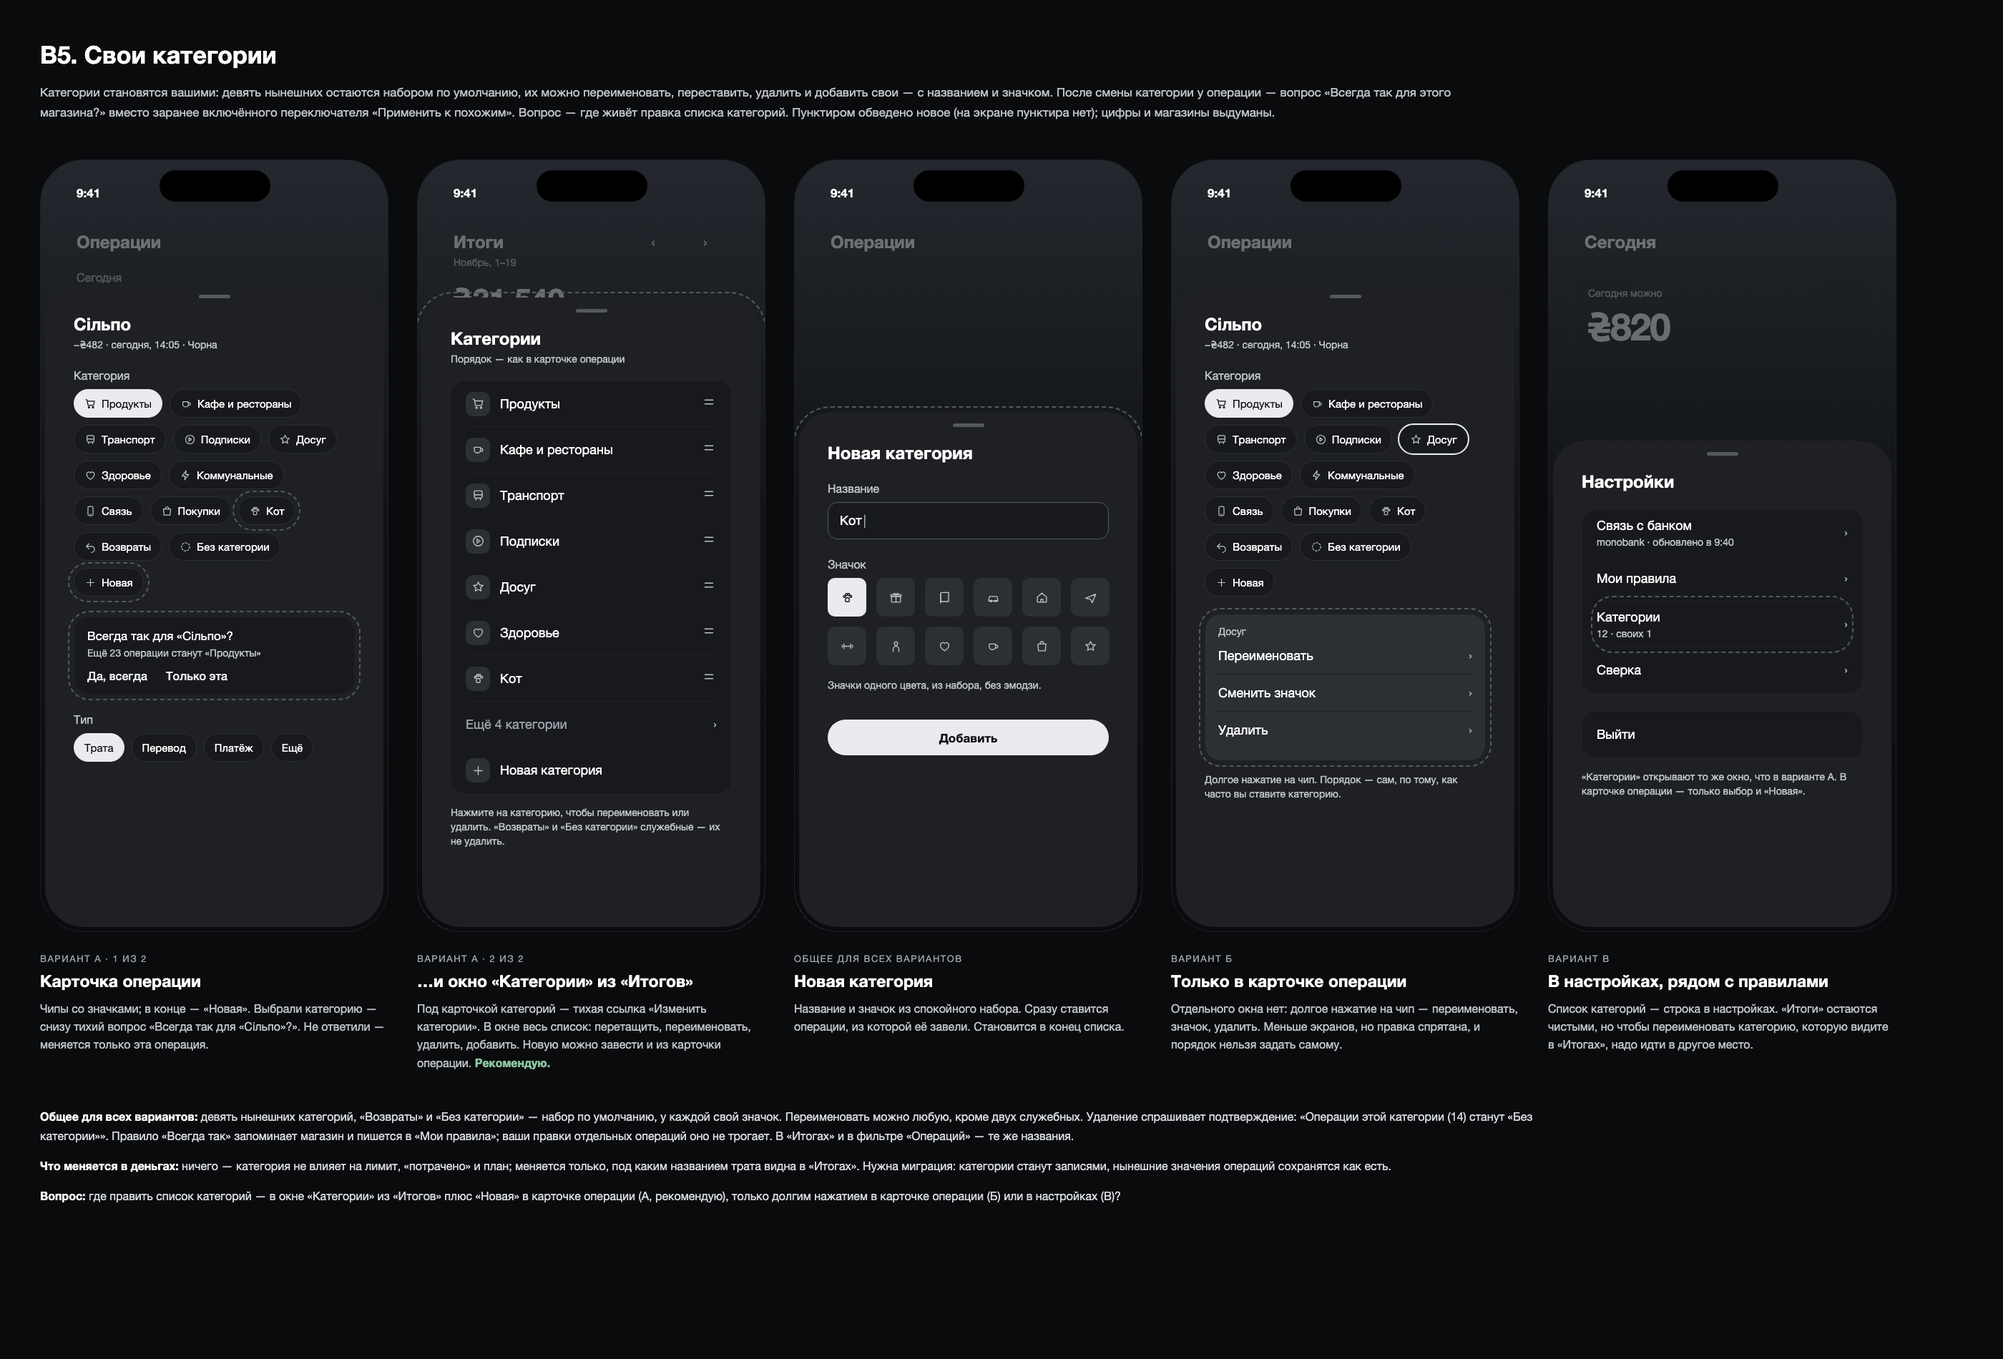
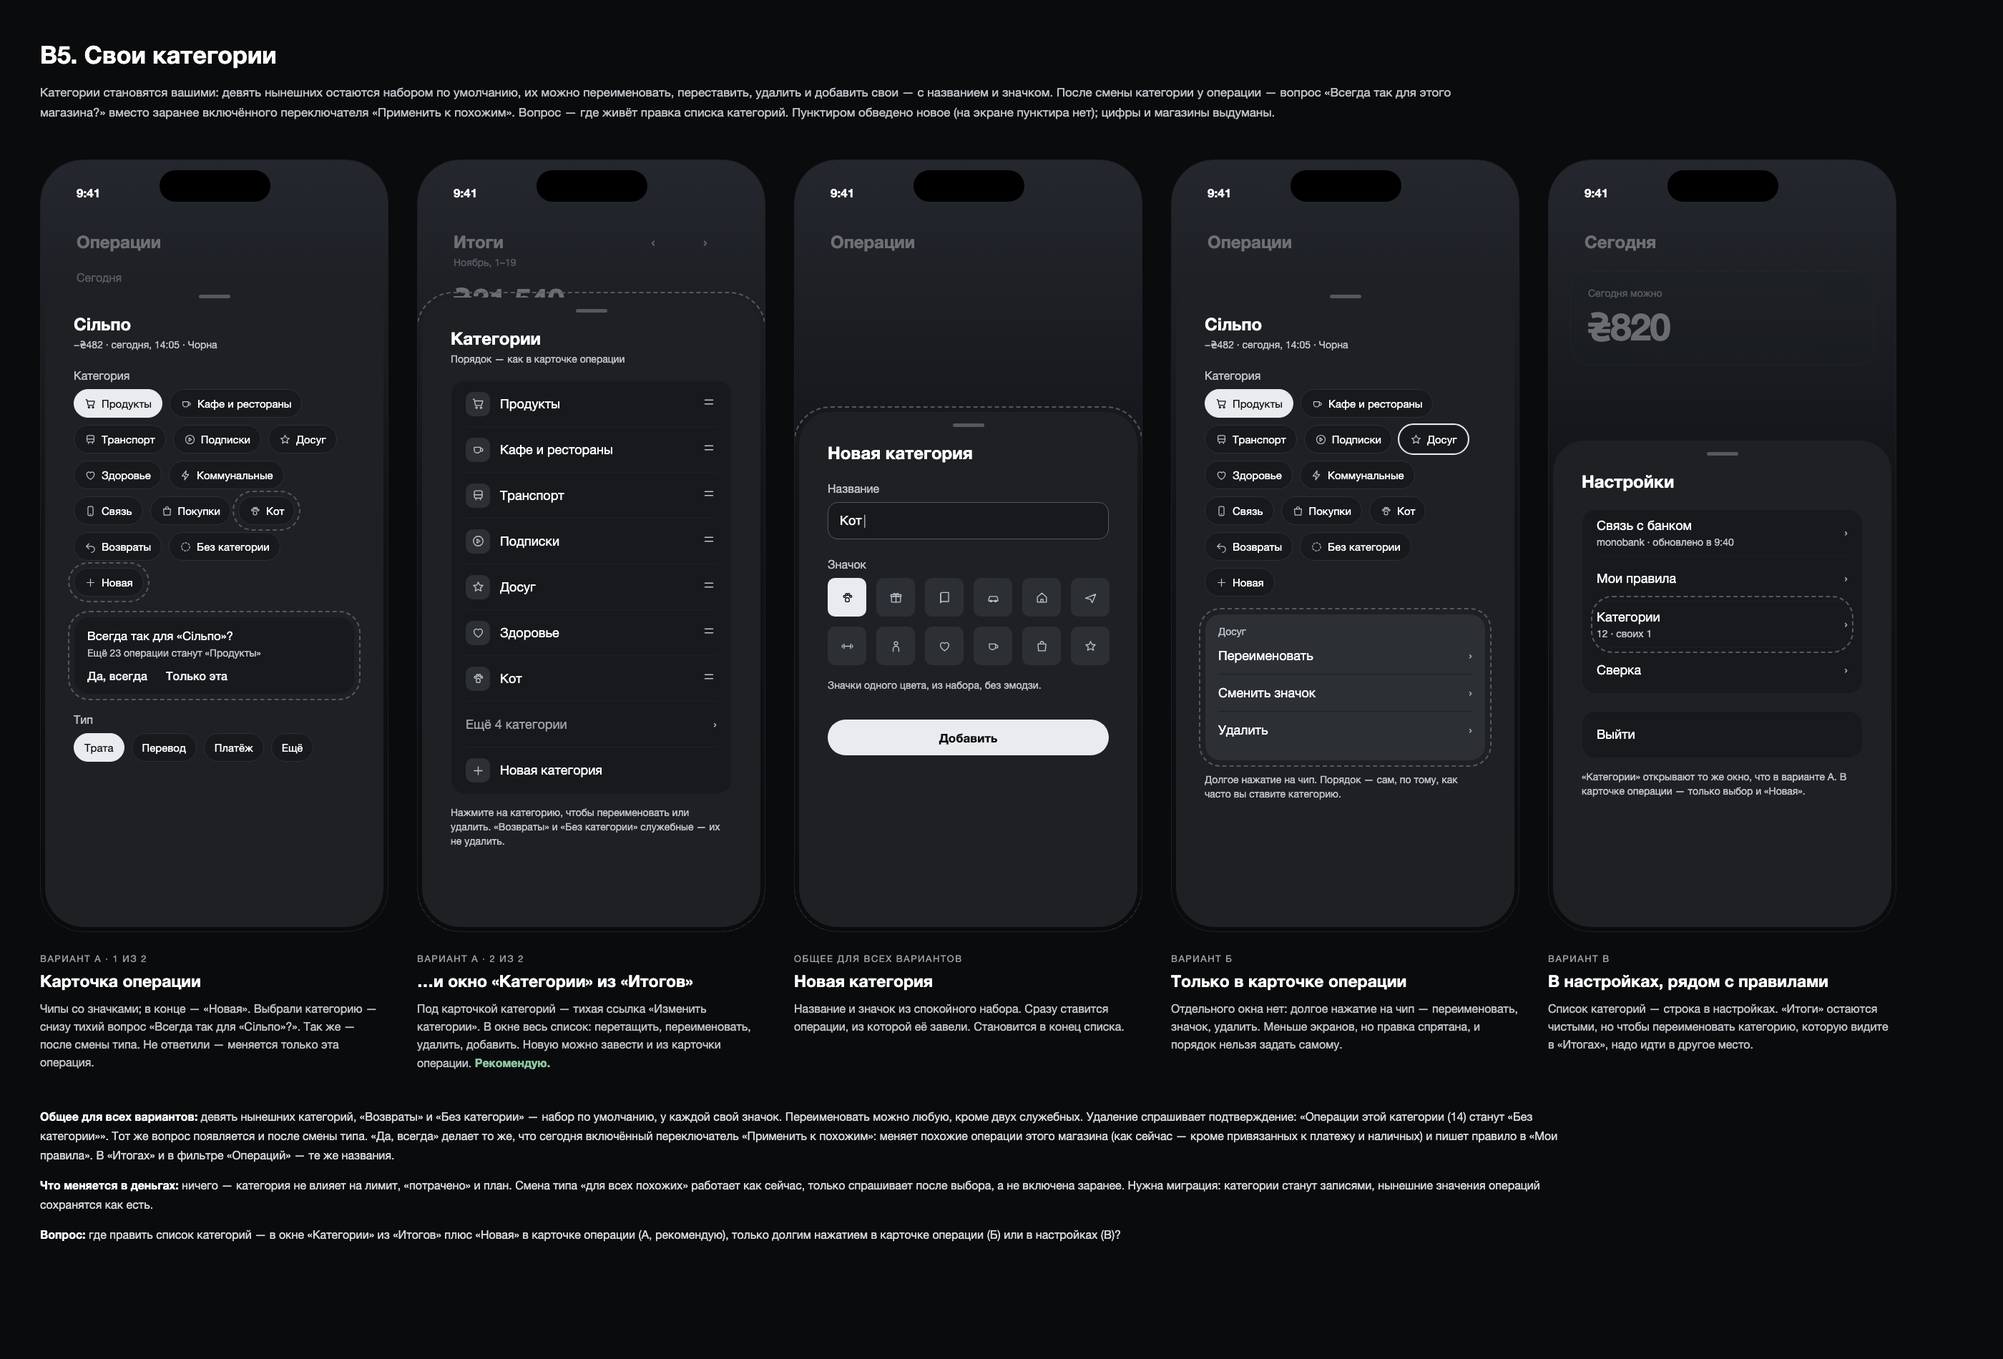
docs: правки по проверке

Changed region(s): [[0.0, 0.8074, 0.6836, 0.9316], [0.1243, 0.7453, 0.1864, 0.7763], [0.0311, 0.7453, 0.0932, 0.7763]]

diff --git a/docs/superpowers/backlog.md b/docs/superpowers/backlog.md
@@ -567,7 +567,7 @@
 
 ### В5. Свои категории
 - Статус: ждёт владельца — макет `daily/2026-11-19/maket-v5-kategorii.png`: где править список категорий — в окне «Категории» из «Итогов» плюс «Новая» в карточке операции (А, рекомендую), только долгим нажатием на чип в карточке операции (Б) или строкой «Категории» в настройках (В)? · Макет: да · Объём: M · миграция · решение владельца 11 ноября «свои категории»
-- Общее для всех вариантов (решил ведущий, владелец может поправить): у каждой категории значок одного цвета из набора, без эмодзи; «Возвраты» и «Без категории» служебные — не удаляются и не переименовываются; удаление спрашивает подтверждение, операции уходят в «Без категории»; переключатель «Применить к похожим» заменяется вопросом «Всегда так для «…»?» после смены категории («Да, всегда» / «Только эта», без ответа меняется одна операция); правило пишется в «Мои правила».
+- Общее для всех вариантов (решил ведущий, владелец может поправить): у каждой категории значок одного цвета из набора, без эмодзи; «Возвраты» и «Без категории» служебные — не удаляются и не переименовываются; удаление спрашивает подтверждение, операции уходят в «Без категории»; переключатель «Применить к похожим» заменяется вопросом «Всегда так для «…»?» после смены категории и после смены типа («Да, всегда» / «Только эта», без ответа меняется одна операция). «Да, всегда» делает ровно то же, что сегодня `applyToSimilar`: те же похожие строки (`similarScope`/`scopeWhere` в `transactions.service.ts`, правки отдельных строк перезаписываются, как сейчас) и то же правило в «Моих правилах» с типом и категорией. Правило учёта не меняется, меняется только то, что переключатель больше не включён заранее.
 - Что: категории становятся записями: название, значок, порядок; нынешние — набор по умолчанию; переименование и добавление в «Итогах» и в карточке операции; после смены категории — «Всегда так для этого магазина» (аудит, раздел 6.4).
 
 ### В6. «Нужное и желаемое»
@@ -575,8 +575,8 @@
 - Что: признак «нужное» / «желаемое» у категории с правкой на отдельной операции; в «Итогах» видно, сколько ушло на желаемое.
 
 ### В7. Наблюдения во фразе дня и строка «Итогов» на «Сегодня»
-- Статус: ждёт владельца — макет `daily/2026-11-19/maket-v7-nablyudeniya.png`: где показывать наблюдения — во фразе дня в спокойный день, без новых строк на «Сегодня» (А, рекомендую), отдельной строкой «Итогов» внизу «Сегодня» (Б) или и там, и там (В)? · Макет: да (тексты — в макете) · Объём: M · после В1
-- Тексты в макете (решил ведущий): «Кафе с начала ноября ₴4,820. Обычно к этому дню около ₴3,100.»; за неделю — «Продукты за неделю ₴2,140. Обычно около ₴1,400.»; в нехватке — только «На этой неделе спишутся подписки: около ₴519.» (из найденных подписок В4, если они спишутся до дохода). Порог в макете — больше на 35% и больше ₴500 против медианы тех же дней трёх прошлых месяцев. «Не показывать такое» — на наблюдении в «Операциях», действует на категорию.
+- Статус: ждёт владельца — макет `daily/2026-11-19/maket-v7-nablyudeniya.png`: где показывать наблюдения — во фразе дня в спокойный день, без новых строк на «Сегодня» (А, рекомендую), отдельной строкой «Итогов» внизу «Сегодня» (Б) или и там, и там (В)? · Макет: да (тексты — в макете) · Объём: M · миграция · после В1
+- Тексты в макете (решил ведущий): «Кафе с начала ноября ₴4,820. Обычно к этому дню около ₴3,100.»; за неделю — «Продукты за неделю ₴2,140. Обычно около ₴1,400.»; в нехватке — только «На этой неделе спишутся подписки: около ₴519.» (из найденных подписок В4, если они спишутся до дохода). Порог в макете — больше на 35% и больше ₴500 против медианы тех же дней трёх прошлых месяцев. «Не показывать такое» — на наблюдении в «Операциях», действует на категорию, хранится на сервере (миграция). Для текста в нехватке нужна оценка следующего списания подписки: в ответе В4 сейчас есть только `lastDate`.
 - Что: спайк по категории (больше 30–40% и больше ₴500 против медианы трёх прошлых месяцев), не больше одного наблюдения в день и трёх в неделю, только в день без дела; в нехватке — только то, что помогает, без упрёка; «Не показывать такое»; наблюдение открывается в «Операциях» с фильтром (аудит, разделы 4 и 8).
 
 ## Дальше (нарезать перед началом)

diff --git a/docs/superpowers/daily/2026-11-19.md b/docs/superpowers/daily/2026-11-19.md
@@ -10,8 +10,8 @@
 | В7. Наблюдения — макет | Три варианта: где показывать наблюдения. Плюс тексты и как это выглядит в режиме нехватки | этот PR |
 
 Что я решил сам (можно поправить):
-- **В5.** У каждой категории есть значок. Значки одного цвета, из готового набора, без эмодзи. «Возвраты» и «Без категории» — служебные: их нельзя удалить или переименовать. Если удалить категорию, её операции станут «Без категории»; перед этим приложение спросит. Переключатель «Применить к похожим» заменит вопрос после смены категории: «Всегда так для «Сільпо»?» с ответами «Да, всегда» и «Только эта». Если не ответить, изменится только эта операция.
-- **В7.** Наблюдение показывается, если по категории ушло больше обычного на 35% и больше чем на ₴500. «Обычно» — середина тех же дней трёх прошлых месяцев. Тон спокойный: «Кафе с начала ноября ₴4,820. Обычно к этому дню около ₴3,100.» Без «слишком», «превысили» и советов. Когда денег до дохода не хватает, сравнения «больше обычного» нет. В этом режиме показывается только то, что помогает, например «На этой неделе спишутся подписки: около ₴519.»
+- **В5.** У каждой категории есть значок. Значки одного цвета, из готового набора, без эмодзи. «Возвраты» и «Без категории» — служебные: их нельзя удалить или переименовать. Если удалить категорию, её операции станут «Без категории»; перед этим приложение спросит. Переключатель «Применить к похожим» заменит вопрос после смены категории или типа: «Всегда так для «Сільпо»?» с ответами «Да, всегда» и «Только эта». Если не ответить, изменится только эта операция. «Да, всегда» меняет те же похожие операции, что и сегодняшний переключатель, поэтому учёт не меняется. Разница одна: раньше переключатель был включён заранее, теперь приложение спрашивает.
+- **В7.** Наблюдение показывается, если по категории ушло больше обычного на 35% и больше чем на ₴500. «Обычно» — середина тех же дней трёх прошлых месяцев. Тон спокойный: «Кафе с начала ноября ₴4,820. Обычно к этому дню около ₴3,100.» Без «слишком», «превысили» и советов. Когда денег до дохода не хватает, сравнения «больше обычного» нет. В этом режиме показывается только то, что помогает, например «На этой неделе спишутся подписки: около ₴519.» Кнопка «Не показывать такое» запоминается на сервере, для этого нужна небольшая миграция.
 
 ## 2. Решения для вас
 
